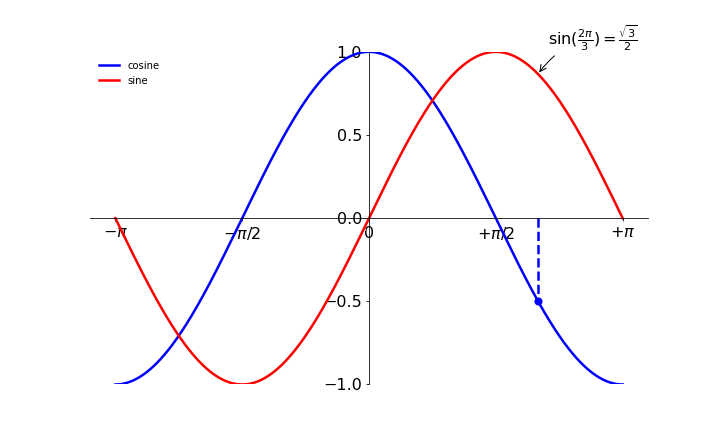
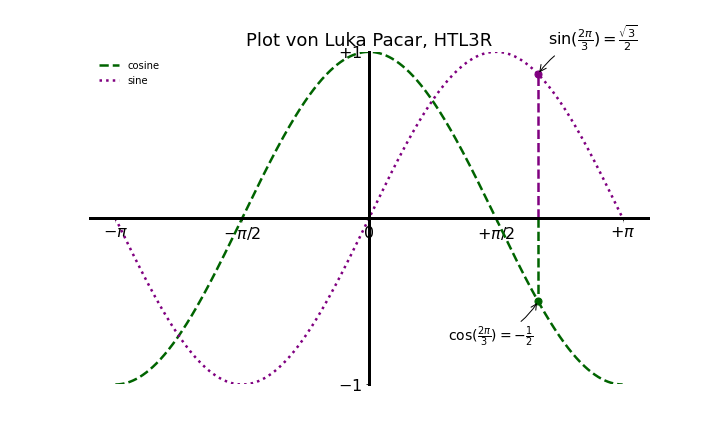
statistik.py: remove comma values from y-axis & add point at cosinus curve

diff --git a/UE01_Plots/plot1.py b/UE01_Plots/plot1.py
@@ -12,10 +12,9 @@ X = [ min_value + (2 * max_value * i) / (CNT-1)  for i in range(CNT)]
 C = [ math.cos(x) for x in X ]
 S = [ math.sin(x) for x in X ]
 
-
 plt.figure(figsize=(10,6), dpi=80)
-plt.plot(X, C, color="blue", linewidth=2.5, linestyle="-", label="cosine")
-plt.plot(X, S, color="red", linewidth=2.5, linestyle="-", label="sine")
+plt.plot(X, C, color="darkgreen", linewidth=2.5, linestyle="--", label="cosine")  # gestrichelt
+plt.plot(X, S, color="purple", linewidth=2.5, linestyle=":", label="sine")
 
 
 # X und Y Achsen Limits
@@ -24,7 +23,7 @@ plt.ylim(-1, 1)
 
 # Ticks
 plt.xticks([-PI, -PI/2, 0, PI/2, PI], [r'$-\pi$', r'$-\pi/2$', r'$0$', r'$+\pi/2$', r'$+\pi$'])
-plt.yticks([0, 0.5, 1, -0.5, -1])
+plt.yticks([+1, 0, -1], [r'$+1$', '', r'$-1$'])
 
 # Legende
 plt.legend(loc='upper left', frameon=False)
@@ -37,16 +36,26 @@ ax.xaxis.set_ticks_position('bottom')
 ax.spines['bottom'].set_position(('data',0))
 ax.yaxis.set_ticks_position('left')
 ax.spines['left'].set_position(('data',0))
+ax.spines['bottom'].set_linewidth(3)
+ax.spines['left'].set_linewidth(3)
+ax.spines['top'].set_linewidth(3)
+ax.spines['right'].set_linewidth(3)
 
 # Markierungen
 t = 2*PI/3
-plt.plot([t,t],[0,math.cos(t)], color ='blue', linewidth=2.5, linestyle="--") # Linie zur cosinus Kurve
-plt.scatter([t,],[math.cos(t),], 50, color ='blue') # Punkt auf der Kurve
-
-# Coole Beschriftung für einen Punkt auf der Sinus Kurve
+plt.plot([t,t],[0,math.sin(t)], color ='purple', linewidth=2.5, linestyle="--")
+plt.scatter([t,],[math.sin(t),], 50, color ='purple')
 plt.annotate(r'$\sin(\frac{2\pi}{3})=\frac{\sqrt{3}}{2}$',
              xy=(t, math.sin(t)), xycoords='data',
              xytext=(+10, +30), textcoords='offset points', fontsize=16,
+             arrowprops=dict(arrowstyle="->", connectionstyle="arc3,rad=.2"))
+
+# Markierung 2
+plt.plot([t, t], [0, math.cos(t)], color='darkgreen', linewidth=2.5, linestyle="--")
+plt.scatter([t], [math.cos(t)], 50, color='darkgreen')
+plt.annotate(r'$\cos(\frac{2\pi}{3})=-\frac{1}{2}$',
+             xy=(t, math.cos(t)), xycoords='data',
+             xytext=(-90, -40), textcoords='offset points', fontsize=14,
              arrowprops=dict(arrowstyle="->", connectionstyle="arc3,rad=.2"))
 
 # Ticks größer
@@ -57,5 +66,6 @@ for label in ax.get_xticklabels() + ax.get_yticklabels():
     # bei neueren matplot versionen
     ax.set_axisbelow(True)
 
+plt.title("Plot von Luka Pacar, HTL3R", fontsize=18)
 plt.savefig("plot1_pacar.png",dpi=72) # muss vor plt.show() sein, sonst ist das Bild weiß!
 plt.show() # Anzeigen: Danach kann man die Grafik nicht mehr ändern!
